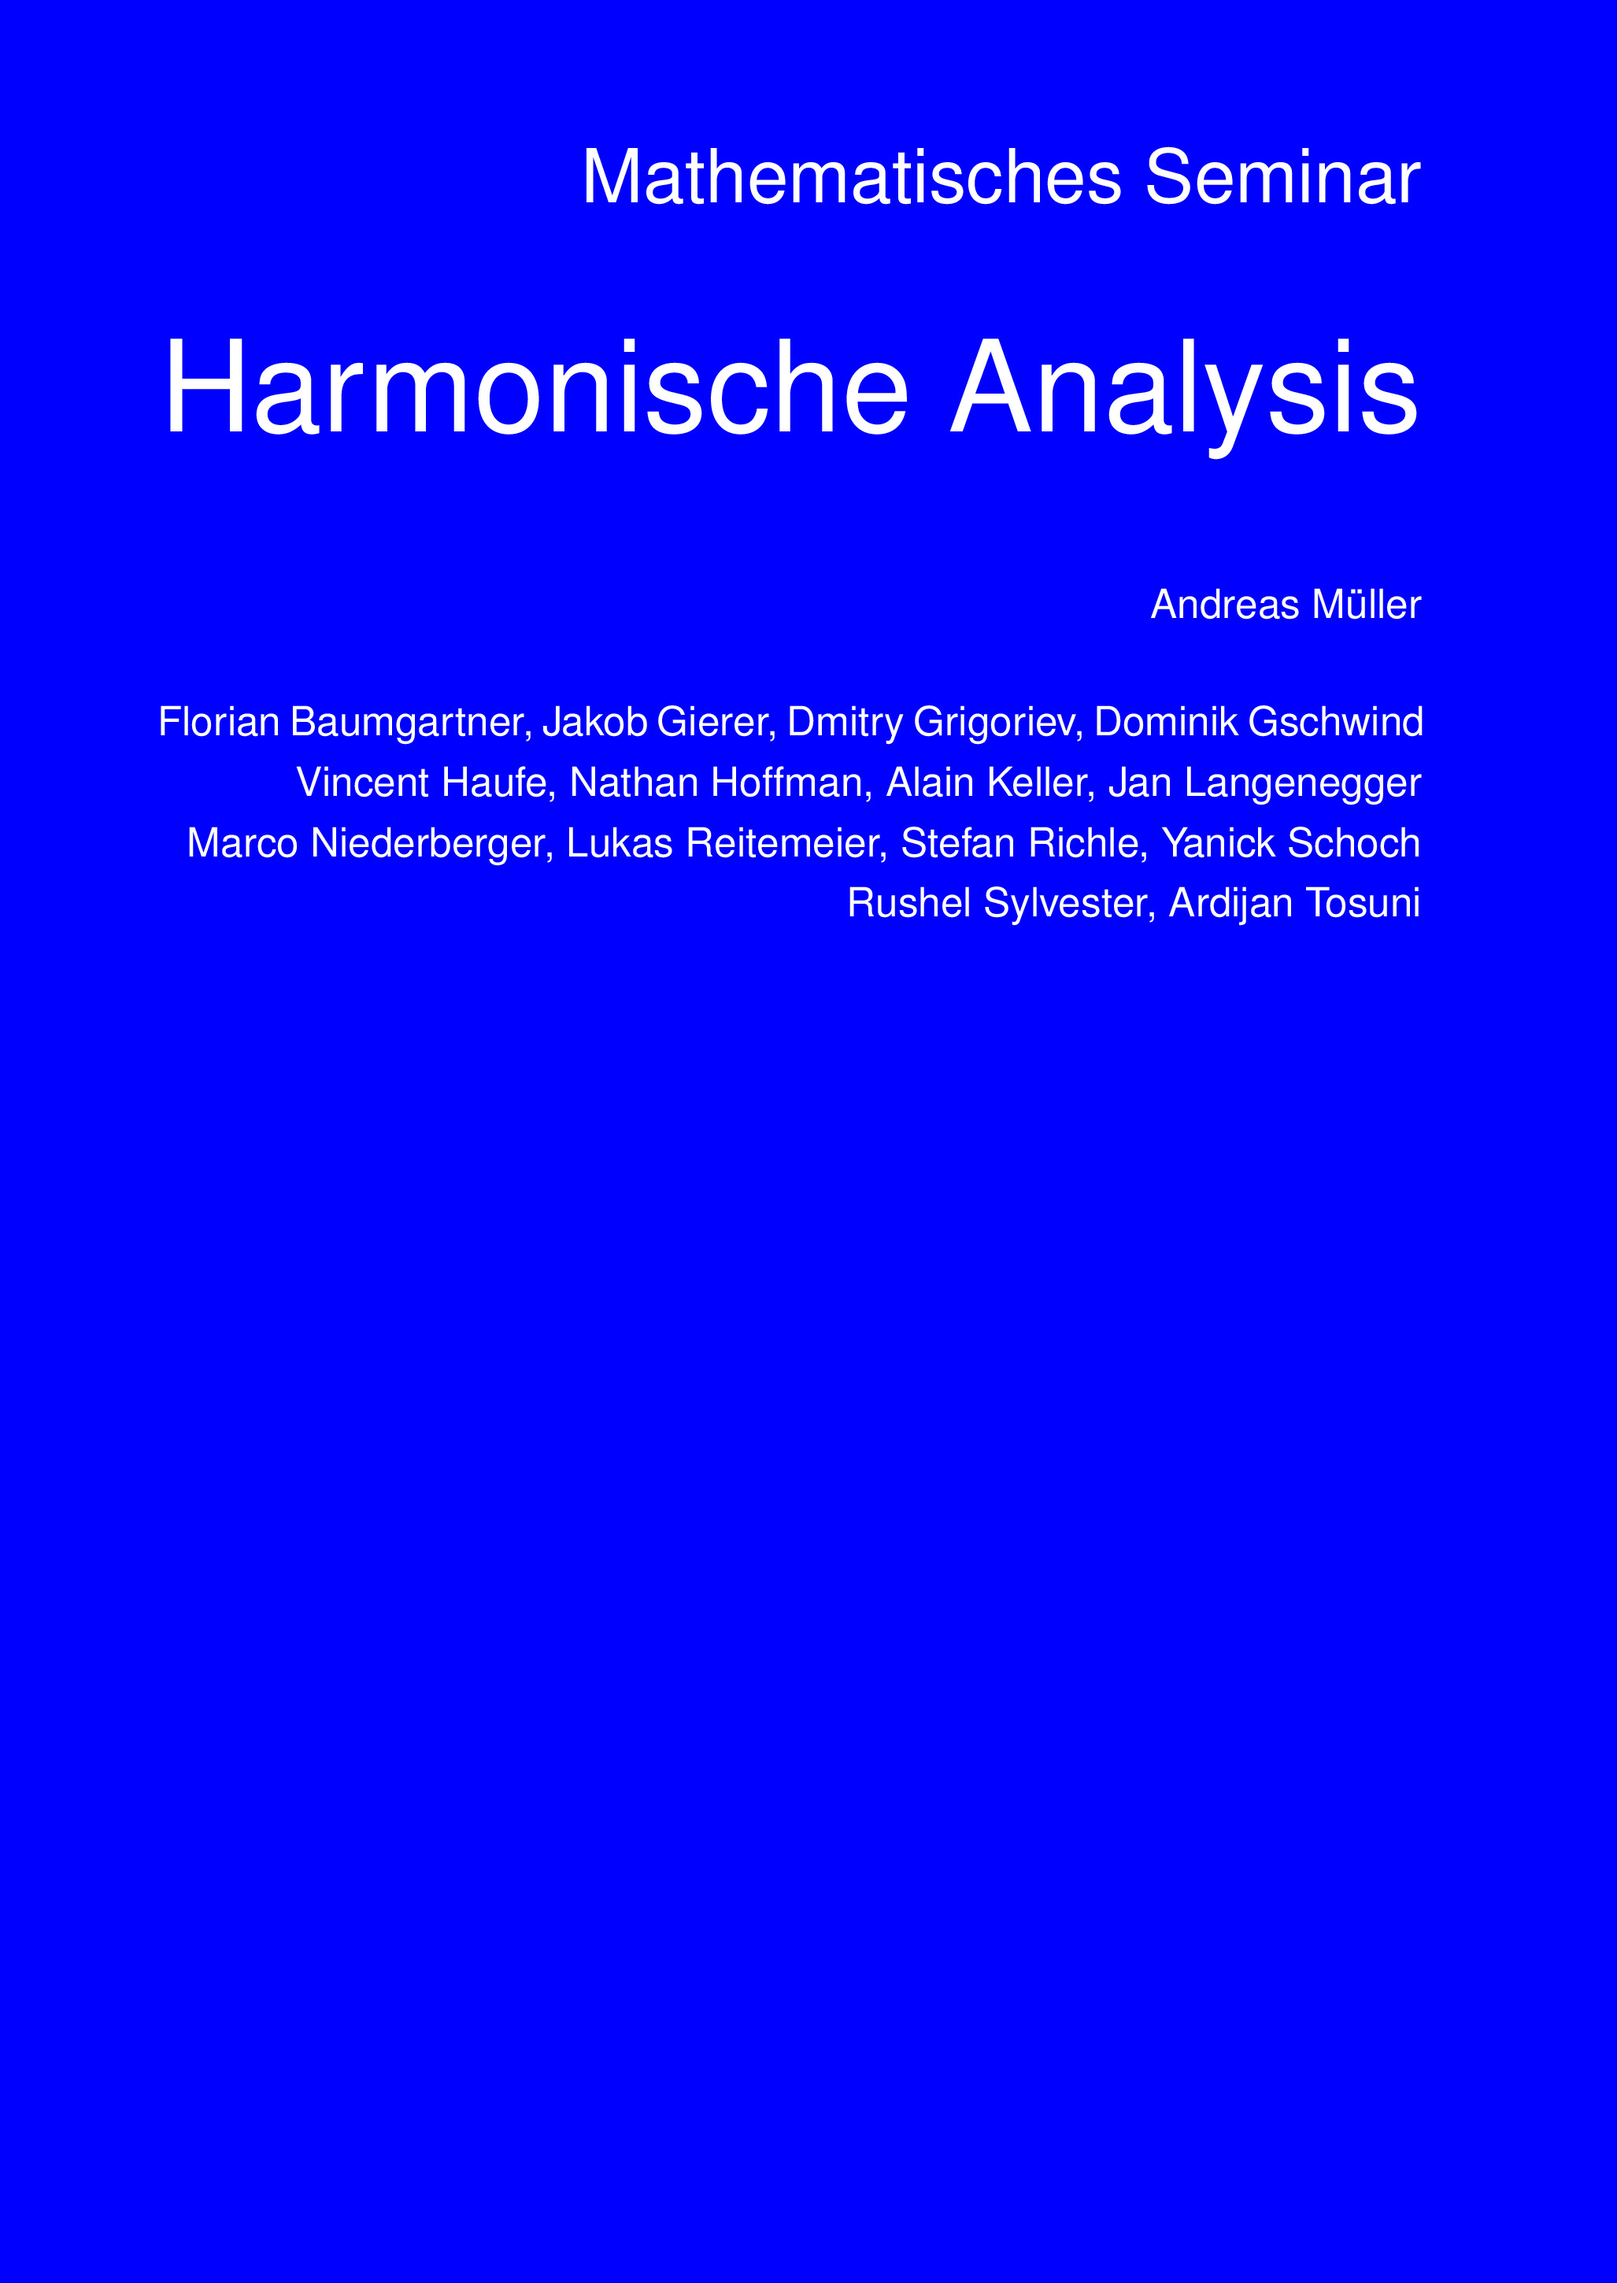
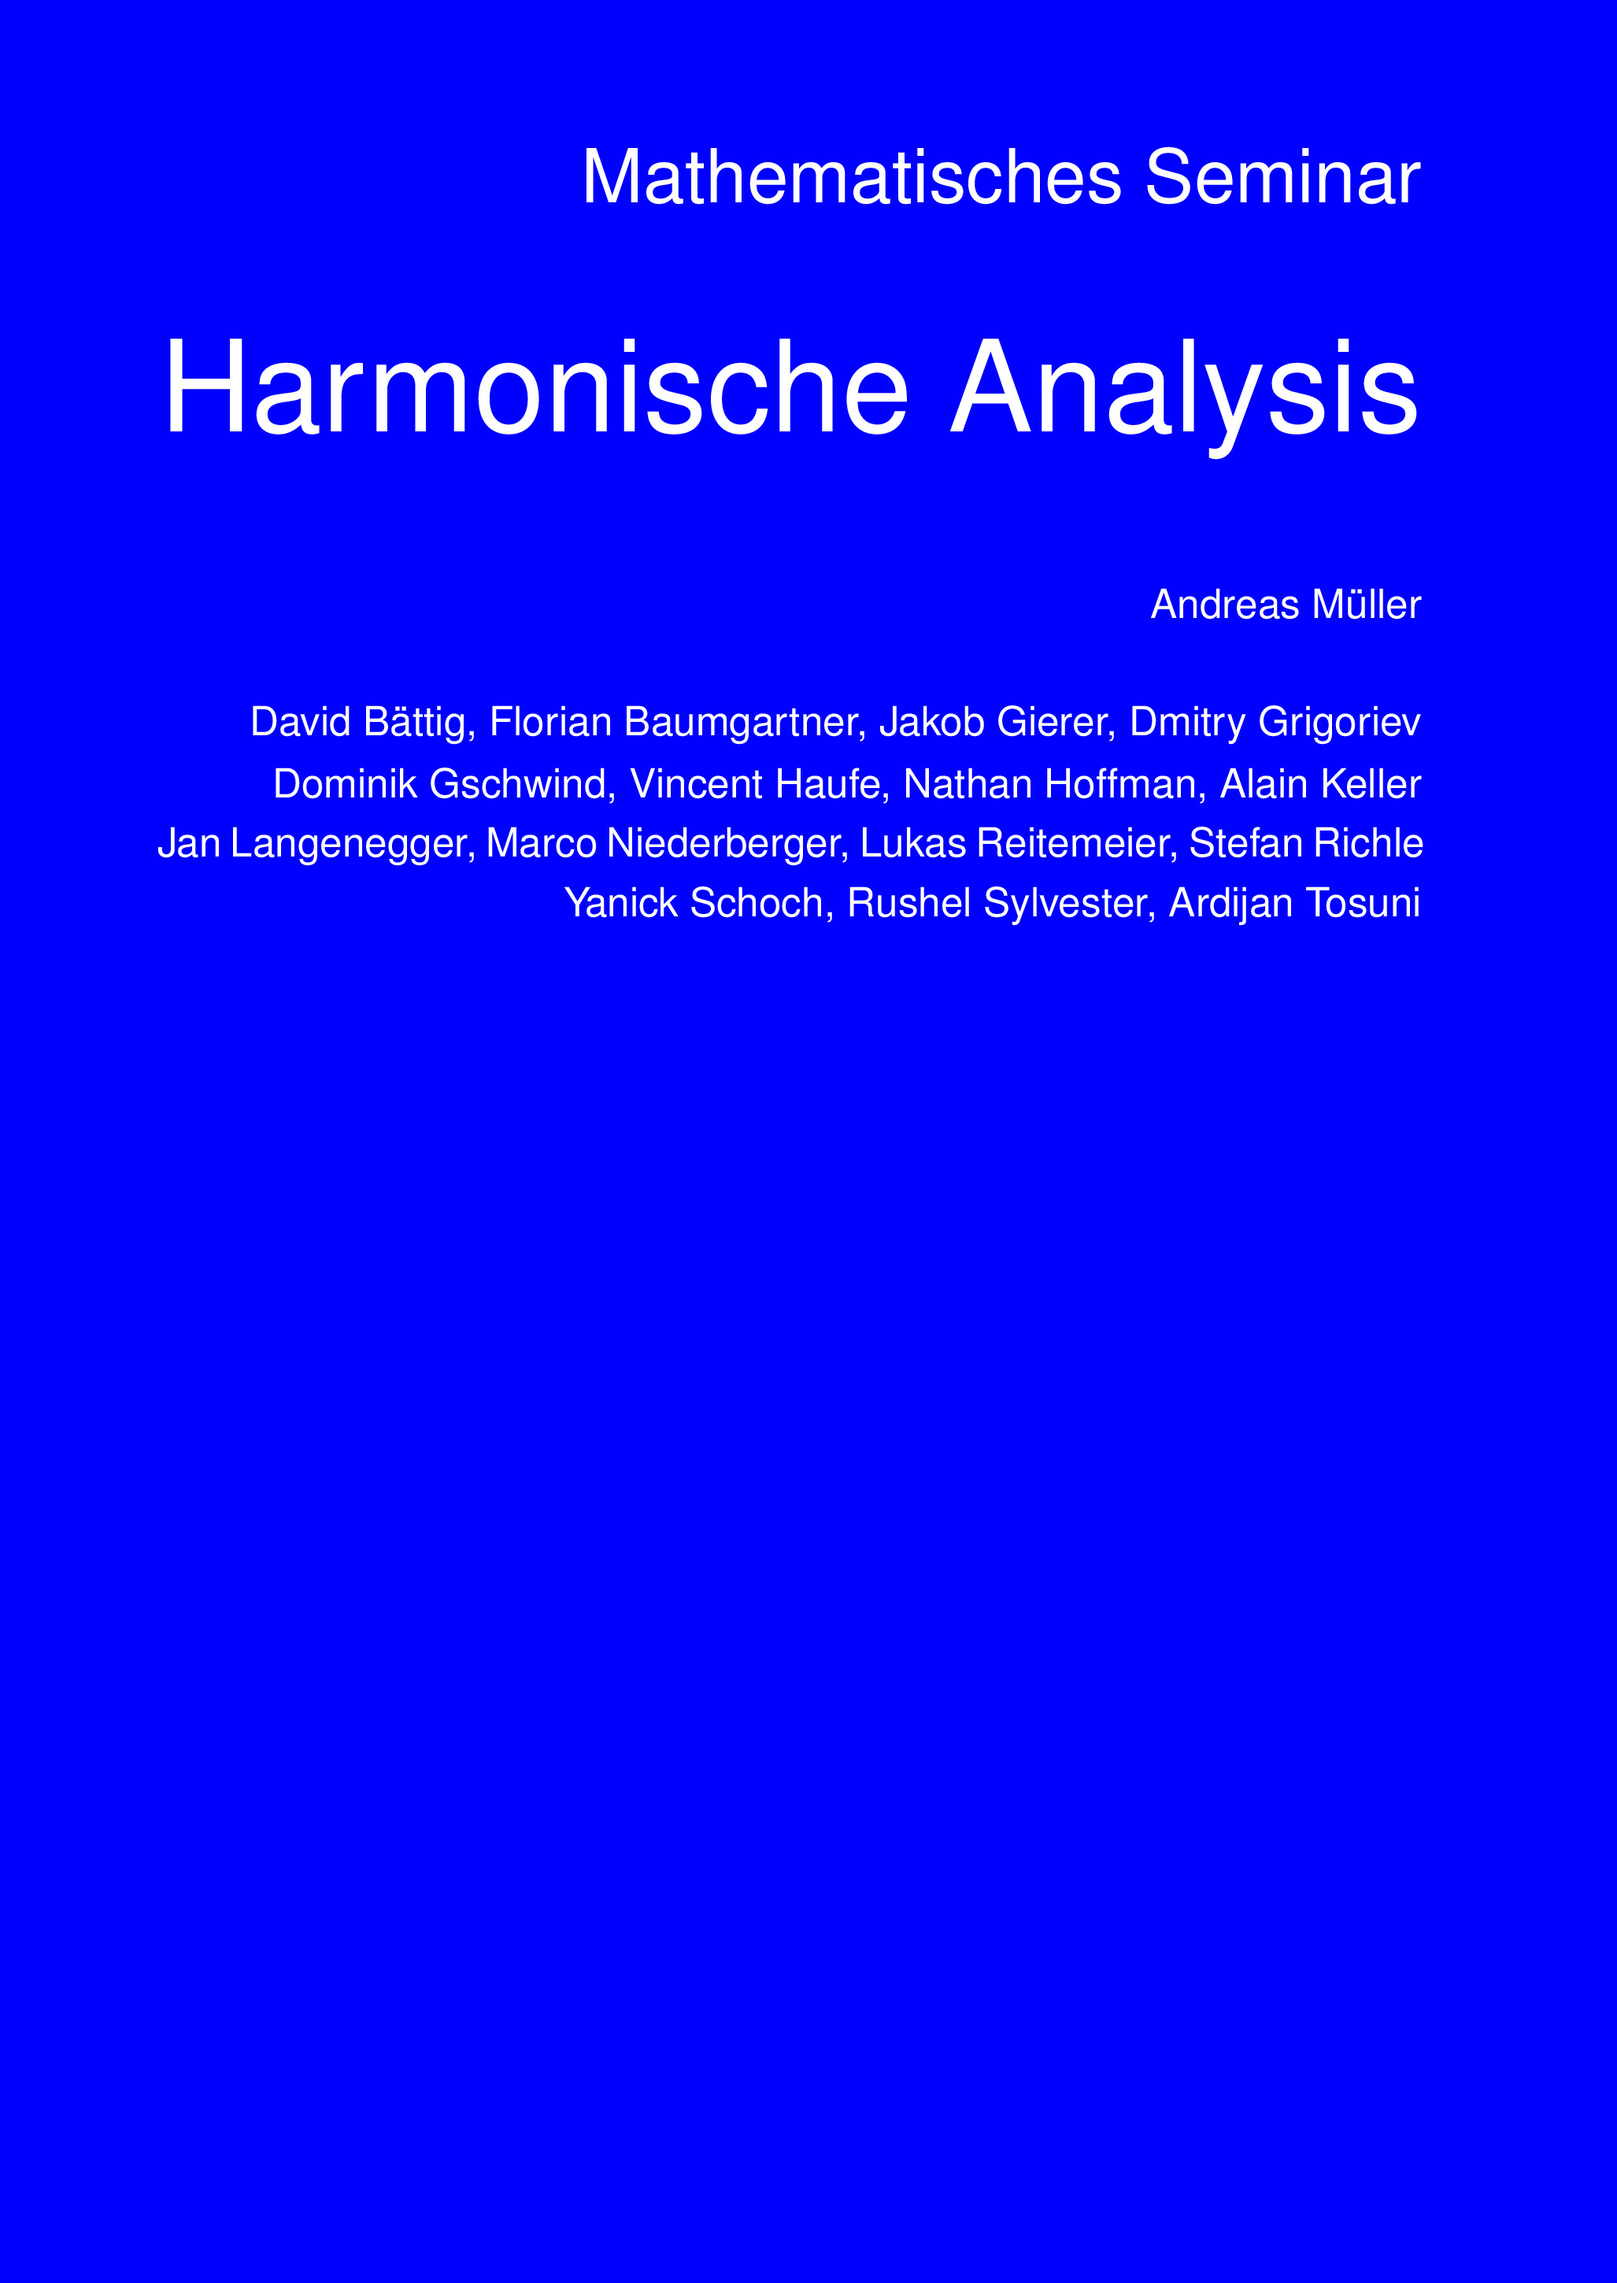
add stuff

Changed region(s): [[0.0935, 0.3103, 0.8724, 0.4034]]

diff --git a/cover/buchcover.tex b/cover/buchcover.tex
@@ -79,36 +79,37 @@
 	[color=white,scale=1]
 	{\hbox to\hsize{\hfill%
 	\sf \fontsize{13}{5}\selectfont
+	David Bättig,		% B
 	Florian Baumgartner,	% MSE
 	Jakob Gierer,		% E
-	Dmitry Grigoriev,	% MSE
-	Dominik Gschwind%	% E
+	Dmitry Grigoriev%	% MSE
 	}};
 
 \node at ({\einschlag+2*\gelenk+\ruecken+1.5*\breite},17.75)
 	[color=white,scale=1]
 	{\hbox to\hsize{\hfill%
 	\sf \fontsize{13}{5}\selectfont
+	Dominik Gschwind,	% E
 	Vincent Haufe,		% E
 	Nathan Hoffman,		% E
-	Alain Keller,		% MSE
-	Jan Langenegger%	% B
+	Alain Keller%		% MSE
 	}};
 
 \node at ({\einschlag+2*\gelenk+\ruecken+1.5*\breite},17.1)
 	[color=white,scale=1]
 	{\hbox to\hsize{\hfill%
 	\sf \fontsize{13}{5}\selectfont
+	Jan Langenegger,	% B
 	Marco Niederberger,	% E
 	Lukas Reitemeier,	% MSE
-	Stefan Richle,		% MSE
-	Yanick Schoch%		% E
+	Stefan Richle%		% MSE
 	}};
  
 \node at ({\einschlag+2*\gelenk+\ruecken+1.5*\breite},16.45)
 	[color=white,scale=1]
 	{\hbox to\hsize{\hfill%
 	\sf \fontsize{13}{5}\selectfont
+	Yanick Schoch,		% E
 	Rushel Sylvester,	% I
 	Ardijan Tosuni%		% M|I
 	}};
